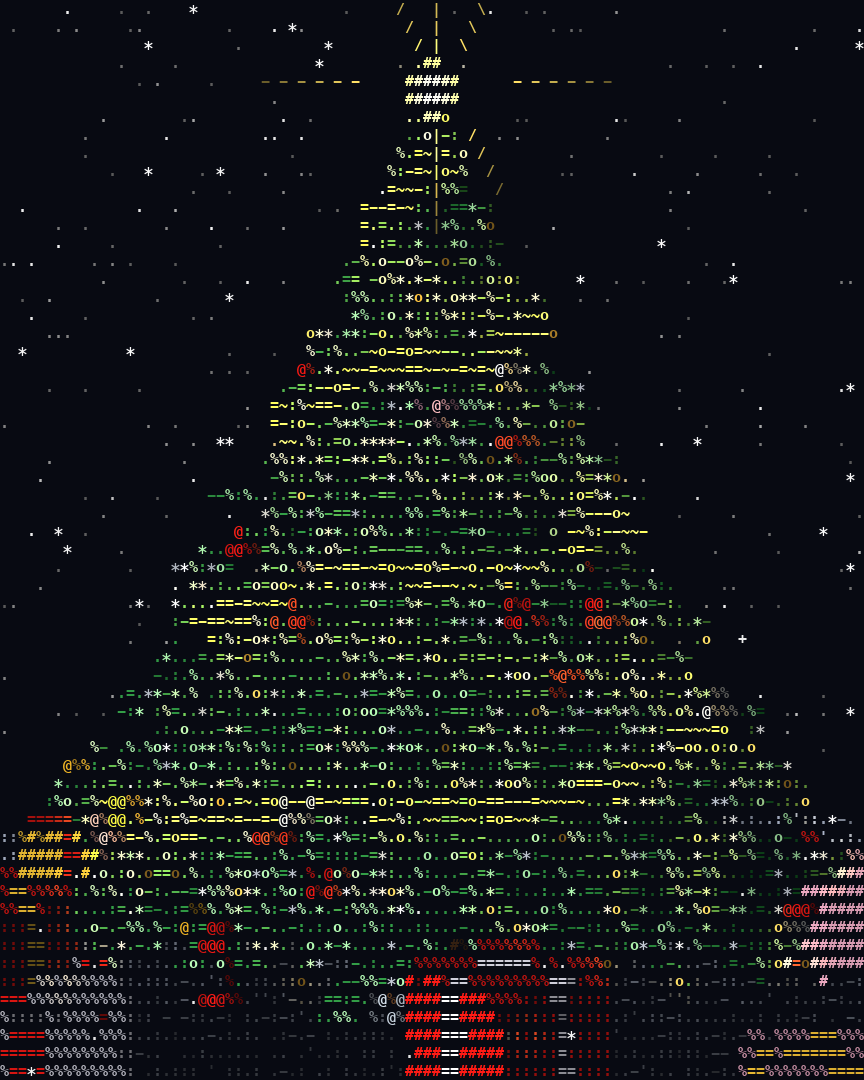
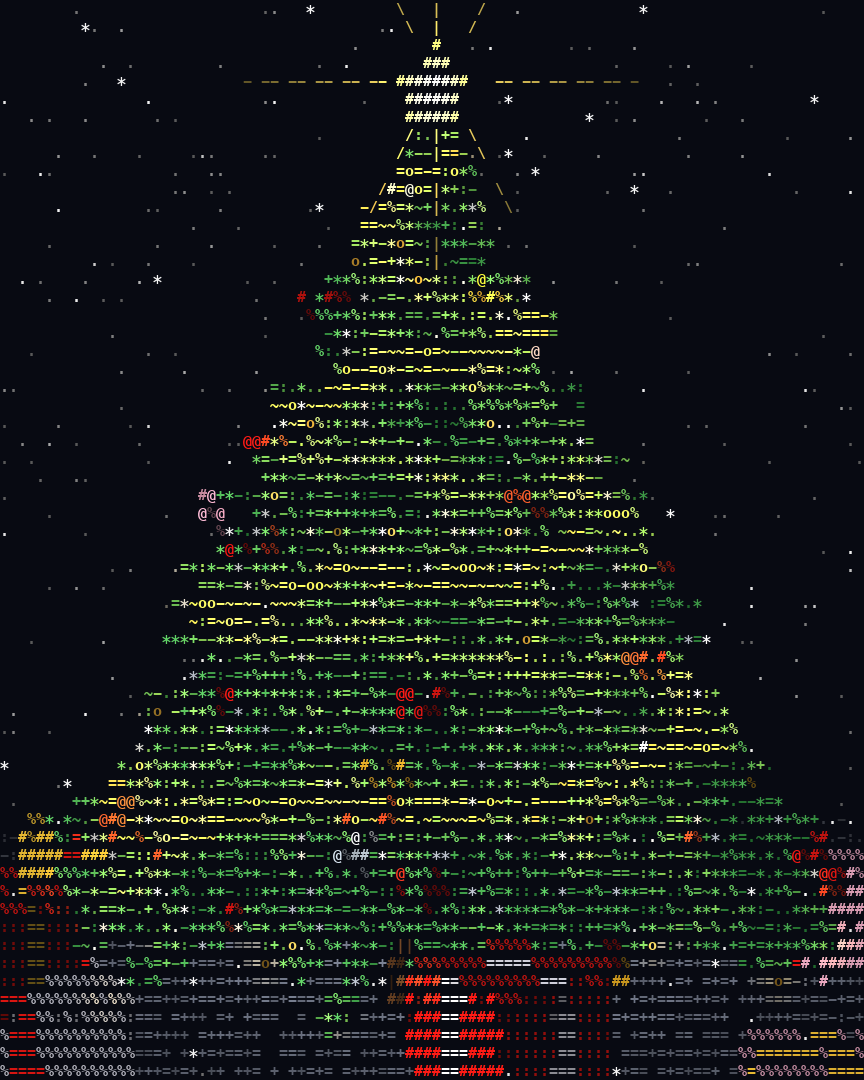
Rebuilt from a close reading of the reference: glyph-toned needles growing bottom-up, cluster ornaments, distance-ramp ground, five-row star with dashed rays

diff --git a/tree.py b/tree.py
@@ -23,22 +23,23 @@ def add(p, n, c, ao, born, ch, kind=STATIC):
 
 # ---------------------------------------------------------------- needles: whorls of branches, tips poking past the cone
 tips = []
-for y in np.linspace(YB, YT - 0.05, 26):
+for y in np.linspace(YB, YT - 0.05, 24):
     h = (y - YB) / (YT - YB); R = radius(h)
     k = max(6, int(R * 44)); a0 = rng.random() * TAU
     for a in np.linspace(0, TAU, k, endpoint=False) + a0:
-        L = R * (0.72 + 0.55 * rng.random())                    # uneven lengths -> jagged silhouette
-        n = max(8, int(L * 200))
-        s = rng.random(n) ** 0.85
+        L = R * (0.78 + 0.45 * rng.random())                    # uneven lengths -> jagged silhouette
+        n = max(8, int(L * 230))
+        s = 1 - rng.random(n) ** 1.4                             # dense at the tip
         d = np.array([math.cos(a), 0, math.sin(a)]); side = np.array([-d[2], 0, d[0]])
         p = (d * (L * s)[:, None] + np.array([0, y, 0])
              - np.array([0, 1, 0]) * (0.11 * L * s * s)[:, None]           # droop
              + side * rng.normal(0, 0.012, n)[:, None] + rng.normal(0, 0.006, (n, 3)))
         nrm = d * 0.7 + np.array([0, 0.7, 0]) + rng.normal(0, 0.10, (n, 3))
         snow = (s > 0.5) & (rng.random(n) < 0.05 * s)
-        gl = rng.choice(list(".:-=%*o"), (~snow).sum(), p=[.36, .16, .12, .08, .14, .10, .04])
-        add(p[~snow], nrm[~snow], [0, 0, 0], 0.75 + 0.25 * s[~snow], 0, gl, NEEDLE)
-        add(p[snow], [0, 1, 0], [0.92, 0.95, 1.0], 1.0, 0, np.full(snow.sum(), "*"))
+        gl = rng.choice(list("*%+=-:.~"), (~snow).sum(), p=[.30, .12, .12, .11, .11, .10, .10, .04])
+        t0 = 1.3 + 5.0 * (y - YB) / (YT - YB) + 0.45 * s          # grows from the bottom up
+        add(p[~snow], nrm[~snow], [0, 0, 0], 0.75 + 0.25 * s[~snow], t0[~snow], gl, NEEDLE)
+        add(p[snow], [0, 1, 0], [0.92, 0.95, 1.0], 1.0, t0[snow], np.full(snow.sum(), "*"))
         tips.append(d * L * 0.95 + np.array([0, y - 0.1 * L, 0]))
 tips = np.array(tips); rng.shuffle(tips)
 
@@ -54,14 +55,14 @@ hg = 0.03 + 0.90 * u; ag = TAU * turns * u + 0.9
 swag = 0.06 * np.abs(np.sin(ag * 2.5)); rg = radius(hg) * 1.03
 p = np.stack([rg * np.cos(ag), YB + (YT - YB) * hg - swag, rg * np.sin(ag)], -1) + rng.normal(0, 0.008, (n, 3))
 g0 = sum(len(x) for x in P)
-add(p, 0, [1.0, 0.80, 0.30], 0.75 + 0.25 * rng.random(n), 3 + 3.5 * u, rng.choice(list("~=-o"), n, p=[.35, .3, .25, .1]))
+add(p, 0, [0.95, 0.72, 0.28], 0.65 + 0.3 * rng.random(n), 3 + 3.5 * u, rng.choice(list("~=-o"), n, p=[.35, .3, .25, .1]))
 g1 = sum(len(x) for x in P)
 
 # ---------------------------------------------------------------- ornaments: small shaded balls on branch tips
 PALETTE = [[1.0, 0.10, 0.08], [1.0, 0.10, 0.08], [1.0, 0.10, 0.08], [1.0, 0.75, 0.15], [1.0, 0.70, 0.80], [0.90, 0.95, 1.0]]
 for i, tp in enumerate(tips[:44]):
-    v = rng.normal(size=(14, 3)); v /= np.linalg.norm(v, axis=1, keepdims=True); v[:, 1] *= 0.6
-    add(tp * [1.08, 1, 1.08] + [0, -0.045, 0] + v * 0.04, v, PALETTE[i % len(PALETTE)], 1.0, 6 + 0.1 * i, "@" * 14, ORNAMENT)
+    v = rng.normal(size=(12, 3)); v /= np.linalg.norm(v, axis=1, keepdims=True)
+    add(tp * [1.08, 1, 1.08] + [0, -0.04, 0] + v * [0.05, 0.028, 0.05], v, PALETTE[i % len(PALETTE)], 1.0, 6 + 0.1 * i, "@" * 12, ORNAMENT)
 
 # ---------------------------------------------------------------- lights: small warm dots that switch on one by one
 NL = 170
@@ -102,14 +103,16 @@ box(1.25, 1.20, .22, .24, .22, GREEN, WHITE, -0.3, 10.8)
 gx, gz = np.meshgrid(np.arange(-2.8, 2.8, 0.024), np.arange(-2.8, 2.8, 0.085))
 gx, gz = gx.ravel(), gz.ravel(); r = np.hypot(gx, gz)
 keep = (r > 0.11) & (rng.random(len(gx)) < 0.85); gx, gz, r = gx[keep], gz[keep], r[keep]
-add(np.stack([gx, np.full(len(gx), Y0 - 0.02), gz], -1), 0, [0.70, 0.74, 0.82], 0.6 + 0.4 * rng.random(len(gx)), 0,
-    rng.choice(list(":.-'"), len(gx), p=[.4, .4, .12, .08]), GROUND)
+gch = np.where(r < 0.9, rng.choice(list("+=+="), len(gx)), np.where(r < 1.6, rng.choice(list("=-:+"), len(gx)), rng.choice(list(".:-."), len(gx))))
+add(np.stack([gx, np.full(len(gx), Y0 - 0.02), gz], -1), 0, [0.70, 0.74, 0.84], np.clip(1.15 - 0.4 * r, 0.3, 1.0) * (0.75 + 0.25 * rng.random(len(gx))), 0,
+    gch, GROUND)
 
 P = np.concatenate(P); N = np.concatenate(N); C = np.concatenate(C); AO = np.concatenate(AO)
 BORN = np.concatenate(BORN); CH = np.concatenate(CH); KIND = np.concatenate(KIND)
 LIGHT = np.array([-0.55, 0.45, -0.70]); LIGHT /= np.linalg.norm(LIGHT)
-NEEDLE_DARK, NEEDLE_MID, NEEDLE_LIGHT = np.array([0.04, 0.22, 0.08]), np.array([0.20, 0.62, 0.28]), np.array([0.70, 0.98, 0.70])
-SPARK = (KIND == NEEDLE) & np.isin(CH, list("%*o"))      # the bright sparkles
+NEEDLE_DARK, NEEDLE_LIGHT = np.array([0.07, 0.32, 0.12]), np.array([0.40, 0.86, 0.42])
+GLYPH_LEVEL = {"%": 1.0, "*": 0.8, "+": 0.68, "=": 0.52, "~": 0.5, "-": 0.42, ":": 0.36, ".": 0.30}   # glyph decides brightness
+LEVEL = np.array([GLYPH_LEVEL.get(c, 0.5) for c in CH])
 
 def lambert(nx, ny, nz):
     return np.clip(nx * LIGHT[0] + ny * LIGHT[1] + nz * LIGHT[2], 0, 1)
@@ -146,19 +149,19 @@ def frame(t, ang, W, H):
     lit = np.any(n != 0, axis=1)
     bright = np.where(lit, 0.35 + 0.95 * ndl, 1.0) * ao * np.clip(0.95 - 0.15 * z, 0.75, 1.1)
 
-    # needles: dark dotted body shaded by light, sparkles stay bright everywhere
-    q = np.clip((bright - B_LO) / (B_HI - B_LO), 0, 1)[:, None]
-    m = kind == NEEDLE; col[m] = NEEDLE_DARK + (NEEDLE_MID - NEEDLE_DARK) * q[m] ** 0.8
-    m = SPARK[vis]; col[m] = NEEDLE_LIGHT * (0.70 + 0.35 * q[m])
+    # needles: the glyph sets the tone (% * + bright, = - : . dark), lighting shifts it a little
+    q = np.clip((bright - B_LO) / (B_HI - B_LO), 0, 1)
+    m = kind == NEEDLE; lv = np.clip(LEVEL[vis][m] * (0.75 + 0.5 * q[m]), 0, 1)[:, None]
+    col[m] = NEEDLE_DARK + (NEEDLE_LIGHT - NEEDLE_DARK) * lv ** 1.3
     # ornaments: bright @ centre, dark % rim
     m = kind == ORNAMENT
-    ch[m] = np.where(ndl[m] > 0.45, "@", "%"); col[m] *= (0.35 + 0.8 * ndl[m])[:, None]
+    ch[m] = np.where(ndl[m] > 0.6, "@", np.where(ndl[m] > 0.3, "#", "%")); col[m] *= (0.4 + 0.75 * ndl[m])[:, None]
     # presents: face shading picks the glyph
     m = kind == PRESENT
     ch[m] = np.where(ndl[m] > 0.55, "#", np.where(ndl[m] > 0.2, "%", ":")); col[m] *= (0.45 + 0.7 * ndl[m])[:, None]
     # everything else lit normally; ground brighter on the far side (behind the tree)
     m = (kind == STATIC) & lit; col[m] *= bright[m][:, None]
-    m = kind == GROUND; col[m] *= (ao[m] * (0.35 + 0.65 * np.clip((z[m] + 0.3) / 2.0, 0, 1)))[:, None]
+    m = kind == GROUND; col[m] *= (ao[m] * (0.6 + 0.4 * np.clip((z[m] + 0.3) / 2.0, 0, 1)))[:, None]
     # lights blink
     vi = np.flatnonzero(vis); lmask = (vi >= li0) & (vi < li1)
     on = np.sin(t * 2.4 + light_phase[:lmask.sum()]) > -0.3
@@ -189,18 +192,19 @@ def frame(t, ang, W, H):
         g = min(1.0, (t - 13) / 1.5)
         tx, ty = int(W / 2), int(H * 0.50 - f * (YT + 0.04 - 0.06) / CAM)
         glow = 0.9 + 0.1 * math.sin(t * 5)
-        for j, row in enumerate(["##", "######", "######", "##"]):
+        for j, row in enumerate(["#", "###", "########", "######", "######"]):
             for i, chr_ in enumerate(row):
-                yy, xx = ty - 1 + j, tx - len(row) // 2 + i
+                yy, xx = ty - 2 + j, tx - len(row) // 2 + i
                 if 0 <= yy < H and 0 <= xx < W: grid[yy, xx] = chr_; rgb[yy, xx] = [1.0, 0.92, 0.45 * glow]; emis[yy, xx] = [1.0, 0.9, 0.4]
-        rays = [(0, -1, "|", 2, 8), (0, 1, "|", 3, 6), (1, -1, "\\", 2, 6), (-1, -1, "/", 2, 6), (1, 1, "/", 3, 4), (-1, 1, "\\", 3, 4),
-                (2, 0, "-", 4, 6), (-2, 0, "-", 4, 6)]
+        rays = [(0, -1, "|", 3, 11), (0, 1, "|", 3, 9), (1, -1, "/", 2, 7), (-1, -1, "\\", 2, 7), (1, 1, "\\", 3, 6), (-1, 1, "/", 3, 6),
+                (1, 0, "-", 6, 16), (-1, 0, "-", 6, 16)]
         for ddx, ddy, chr_, k0, ln in rays:
             for k in range(k0, k0 + int(ln * g)):
-                yy, xx = ty + k * ddy, tx + k * ddx + (ddx > 0) - (ddx < 0 and ddy == 0)
-                if 0 <= yy < H and 0 <= xx < W and (grid[yy, xx] == " " or ddx == 0):
+                if k % 3 == 2: continue                                   # dashed
+                yy, xx = ty + k * ddy, tx + k * ddx + (ddx > 0)
+                if 0 <= yy < H and 0 <= xx < W and (grid[yy, xx] == " " or ddx == 0 or ddy > 0):
                     frac = (k - k0) / ln
-                    grid[yy, xx] = chr_; rgb[yy, xx] = np.array([1.0, 0.88, 0.40]) * (1.0 - 0.7 * frac)
+                    grid[yy, xx] = chr_; rgb[yy, xx] = np.array([1.0, 0.88, 0.40]) * (0.9 - 0.55 * frac)
     rgb += bloom(emis)
     return grid, np.clip(rgb * 255, 0, 255).astype(int), int(lmask.sum())
 
